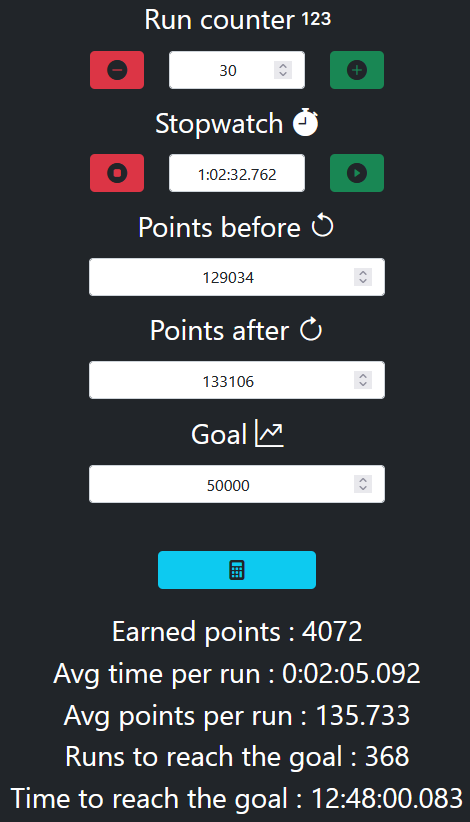
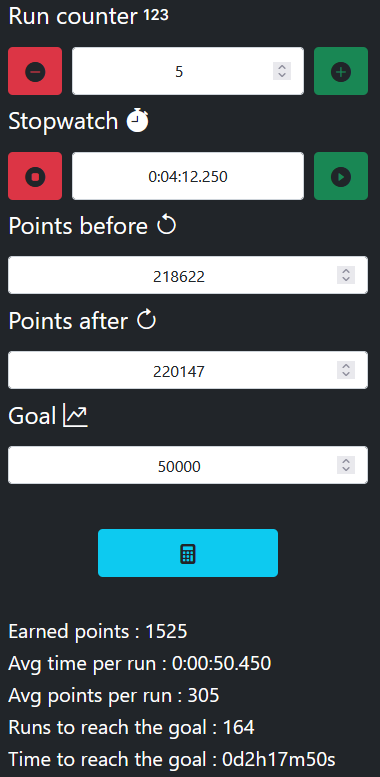
Redesign for mobile

diff --git a/index.html b/index.html
@@ -3,97 +3,66 @@
     <head class="bg-dark">
         <link href="https://cdn.jsdelivr.net/npm/bootstrap@5.1.3/dist/css/bootstrap.min.css" rel="stylesheet" integrity="sha384-1BmE4kWBq78iYhFldvKuhfTAU6auU8tT94WrHftjDbrCEXSU1oBoqyl2QvZ6jIW3" crossorigin="anonymous">
         <link rel="stylesheet" href="https://cdn.jsdelivr.net/npm/bootstrap-icons@1.8.1/font/bootstrap-icons.css">
+        <link rel="stylesheet" href="css/style.css?v=1.1.0" />
     </head>
     <script src="https://ajax.googleapis.com/ajax/libs/jquery/3.6.0/jquery.min.js"></script>
     <script src="https://cdn.jsdelivr.net/npm/bootstrap@5.1.3/dist/js/bootstrap.bundle.min.js" integrity="sha384-ka7Sk0Gln4gmtz2MlQnikT1wXgYsOg+OMhuP+IlRH9sENBO0LRn5q+8nbTov4+1p" crossorigin="anonymous"></script>
-    <script src="farmingtools.js"></script>
+    <script src="js/farmingtools.js"></script>
     <body class="bg-dark">
-        <div class="col-sm-12 text-center">
-            <div class="row m-0 mt-2">
-                <div class="">
-                    <h3 class="text-white">Run counter&nbsp;<i class="bi bi-123"></i></h3>
-                </div>
+        <div class="main-container">
+            <div class="custom-input">
+                <h4 class="text-white">Run counter&nbsp;<i class="bi bi-123"></i></h4>
             </div>
-            <div class="row m-0 mt-2 justify-content-center">
-                <div class="col-sm-2">
-                    <div class="row">
-                        <div class="col-sm-3">
-                            <button id="runCounterDecrement" name="runCounterDecrement" type="button" class="btn btn-lg btn-default bg-danger"><i class="bi bi-dash-circle-fill"></i></button>
-                        </div>
-                        <div class="col-sm-6">
-                            <input type="number" class="form-control bg-white text-center" id="runNumber" name="runNumber" min="0" value="0">
-                        </div>
-                        <div class="col-sm-3">
-                            <button id="runCounterIncrement" name="runCounterIncrement" type="button" class="btn btn-lg btn-default bg-success"><i class="bi bi-plus-circle-fill"></i></button>
-                        </div>
-                    </div>
-                </div>
+            <div class="custom-input">
+                <button id="runCounterDecrement" name="runCounterDecrement" type="button" class="btn btn-lg bg-danger"><i class="bi bi-dash-circle-fill"></i></button>
+                <input type="number" class="form-control bg-white text-center custom-input-margin" id="runNumber" name="runNumber" min="0" value="0">
+                <button id="runCounterIncrement" name="runCounterIncrement" type="button" class="btn btn-lg bg-success"><i class="bi bi-plus-circle-fill"></i></button>
             </div>
-            <div class="row m-0 mt-3">
-                <div class="">
-                    <h3 class="text-white">Stopwatch&nbsp;<i class="bi bi-stopwatch-fill"></i></h3>
-                </div>
+            <div class="custom-input">
+                <h4 class="text-white">Stopwatch&nbsp;<i class="bi bi-stopwatch-fill"></i></h4>
             </div>
-            <div class="row m-0 mt-2 justify-content-center">
-                <div class="col-sm-2">
-                    <div class="row">
-                        <div class="col-sm-3">
-                            <button type="button" class="btn btn-lg btn-default bg-danger" id="resetStopwatch" name="resetStopwatch"><i class="bi bi-stop-circle-fill"></i></button>
-                        </div>
-                        <div class="col-sm-6">
-                            <input type="text" class="form-control bg-white text-center" id="stopwatch" name="stopwatch" value="0:00:00.000">
-                        </div>
-                        <div class="col-sm-3">
-                            <button type="button" class="btn btn-lg btn-default bg-success" id="startPauseStopwatch" name="startPauseStopwatch">
-                                <i id="startPauseStopwatchIcon" name="startPauseStopwatchIcon" class="bi bi-play-circle-fill"></i>
-                            </button>
-                        </div>
-                    </div>
-                </div>
+            <div class="custom-input">
+                <button type="button" class="btn btn-lg bg-danger" id="resetStopwatch" name="resetStopwatch"><i class="bi bi-stop-circle-fill"></i></button>
+                <input type="text" class="form-control bg-white text-center custom-input-margin" id="stopwatch" name="stopwatch" value="0:00:00.000">
+                <button type="button" class="btn btn-lg bg-success" id="startPauseStopwatch" name="startPauseStopwatch">
+                    <i id="startPauseStopwatchIcon" name="startPauseStopwatchIcon" class="bi bi-play-circle-fill"></i>
+                </button>
             </div>
-            <div class="row m-0 mt-3">
-                <div class="">
-                    <h3 class="text-white">Points before&nbsp;<i class="bi bi-arrow-counterclockwise"></i></h3>
-                </div>
+            <div class="custom-input">
+                <h4 class="text-white">Points before&nbsp;<i class="bi bi-arrow-counterclockwise"></i></h4>
             </div>
-            <div class="row m-0 mt-2 justify-content-center">
-                <div class="col-sm-2">
-                    <input type="number" class="form-control bg-white text-center" id="ptsBefore" name="ptsBefore" min="0">
-                </div>
+            <div class="custom-input">
+                <input type="number" class="form-control bg-white text-center" id="ptsBefore" name="ptsBefore" min="0">
             </div>
-            <div class="row m-0 mt-3">
-                <div class="">
-                    <h3 class="text-white">Points after&nbsp;<i class="bi bi-arrow-clockwise"></i></i></h3>
-                </div>
+            <div class="custom-input">
+                <h4 class="text-white">Points after&nbsp;<i class="bi bi-arrow-clockwise"></i></i></h4>
             </div>
-            <div class="row m-0 mt-2 justify-content-center">
-                <div class="col-sm-2">
-                    <input type="number" class="form-control bg-white text-center" id="ptsAfter" name="ptsAfter" min="0">
-                </div>
+            <div class="custom-input">
+                <input type="number" class="form-control bg-white text-center" id="ptsAfter" name="ptsAfter" min="0">
             </div>
-            <div class="row m-0 mt-3">
-                <div class="">
-                    <h3 class="text-white">Goal&nbsp;<i class="bi bi-graph-up-arrow"></i></h3>
-                </div>
+            <div class="custom-input">
+                <h4 class="text-white">Goal&nbsp;<i class="bi bi-graph-up-arrow"></i></h4>
             </div>
-            <div class="row m-0 mt-2 justify-content-center">
-                <div class="col-sm-2">
-                    <input type="number" class="form-control bg-white text-center" id="goal" name="goal" min="0">
-                </div>
+            <div class="custom-input">
+                <input type="number" class="form-control bg-white text-center" id="goal" name="goal" min="0">
             </div>
-            <div class="row m-0 mt-5">
-                <div class="">
-                    <button type="button" class="btn btn-lg btn-default bg-info col-sm-1" id="calc" name="calc"><i class="bi bi-calculator-fill"></i></button>
-                </div>
+            <div class="custom-submit justify-content-center">
+                <button type="button" class="btn btn-lg bg-info submit-btn-width" id="calc" name="calc"><i class="bi bi-calculator-fill"></i></button>
             </div>
-            <div class="row m-0 mt-4">
-                <div class="">
-                    <h3 class="text-white">Earned points : <span class="text-white" id="earnedPoints" name="earnedPoints"><i class="bi bi-question-circle"></i></span></h3>
-                    <h3 class="text-white">Avg time per run : <span class="text-white" id="avgTimePerRun" name="avgTimePerRun"><i class="bi bi-question-circle"></i></span></h3>
-                    <h3 class="text-white">Avg points per run : <span class="text-white" id="avgPtsPerRun" name="avgPtsPerRun"><i class="bi bi-question-circle"></i></span></h3>
-                    <h3 class="text-white">Runs to reach the goal : <span class="text-white" id="runsRequired" name="runsRequired"><i class="bi bi-question-circle"></i></span></h3>
-                    <h3 class="text-white">Time to reach the goal : <span class="text-white" id="timeRequired" name="timeRequired"><i class="bi bi-question-circle"></i></span></h3>
-                </div>
+            <div class="custom-text">
+                <h5 class="text-white">Earned points : <span class="text-white" id="earnedPoints" name="earnedPoints"><i class="bi bi-question-circle"></i></span></h5>
+            </div>
+            <div class="custom-text">
+                <h5 class="text-white">Avg time per run : <span class="text-white" id="avgTimePerRun" name="avgTimePerRun"><i class="bi bi-question-circle"></i></span></h5>
+            </div>
+            <div class="custom-text">
+                <h5 class="text-white">Avg points per run : <span class="text-white" id="avgPtsPerRun" name="avgPtsPerRun"><i class="bi bi-question-circle"></i></span></h5>
+            </div>
+            <div class="custom-text">
+                <h5 class="text-white">Runs to reach the goal : <span class="text-white" id="runsRequired" name="runsRequired"><i class="bi bi-question-circle"></i></span></h5>
+            </div>
+            <div class="custom-text">
+                <h5 class="text-white">Time to reach the goal : <span class="text-white" id="timeRequired" name="timeRequired"><i class="bi bi-question-circle"></i></span></h5>
             </div>
         </div>
     </body> 

diff --git a/css/style.css b/css/style.css
@@ -1,0 +1,32 @@
+.main-container {
+    width: 360px;
+    margin: 10px auto;
+    display: grid;
+}
+
+.custom-input {
+    margin: 5px auto;
+    width: 100%;
+    display: flex;
+}
+
+.custom-submit {
+    margin: 40px auto;
+    width: 100%;
+    display: flex;
+}
+
+.custom-text {
+    margin: auto;
+    width: 100%;
+    display: flex;
+}
+
+.submit-btn-width {
+    width: 50%;
+}
+
+.custom-input-margin {
+    margin-left: 10px;
+    margin-right: 10px;
+}
